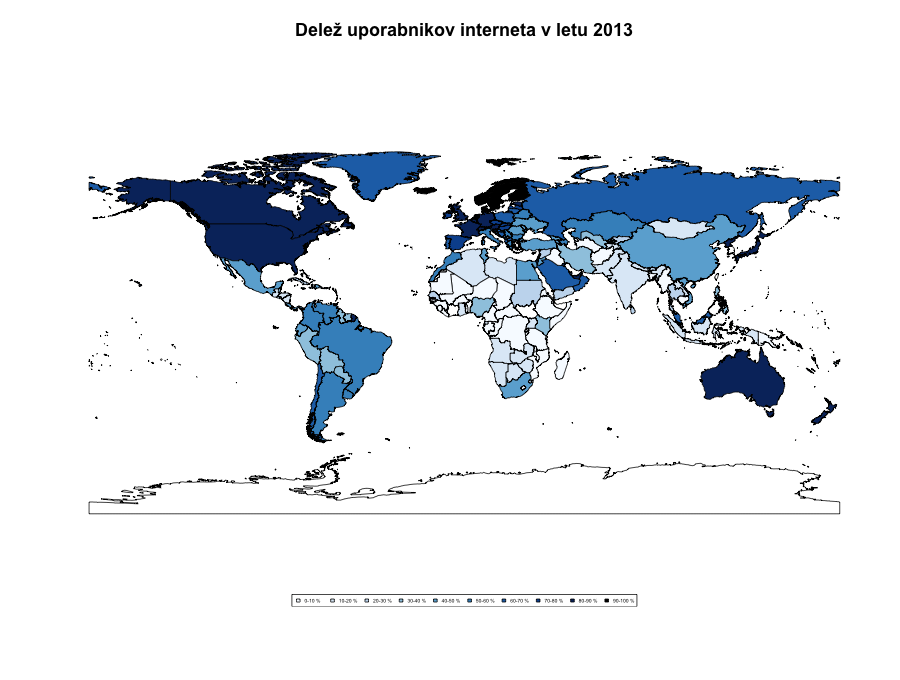
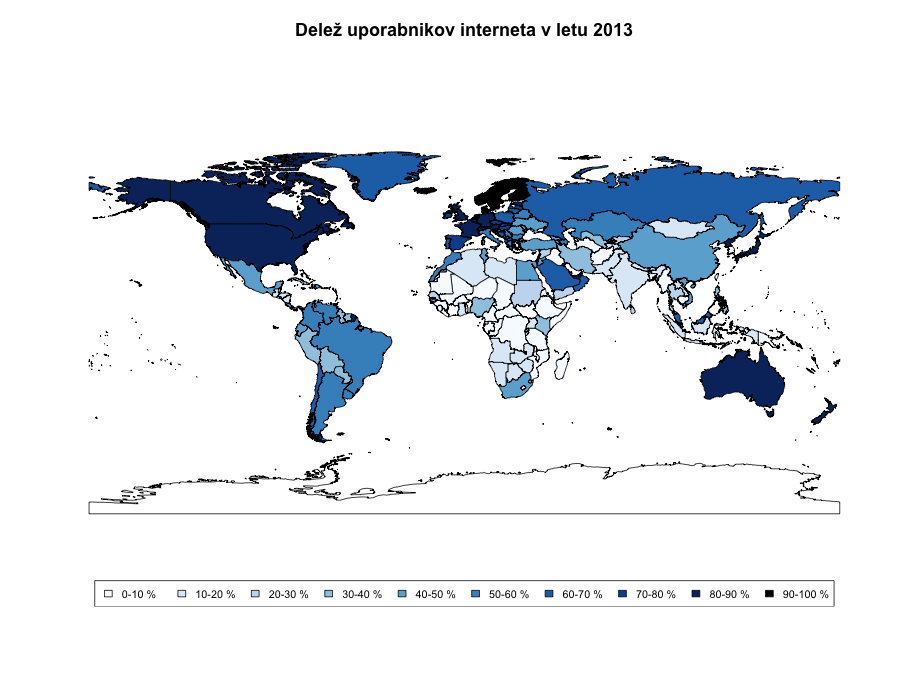
dodatni stolpci pri zemljevidu sveta... za 4. fazo

Changed region(s): [[0.0933, 0.8647, 0.9333, 0.8956]]

diff --git a/spreminjanje.uporabnikov.interneta.html b/spreminjanje.uporabnikov.interneta.html
@@ -19,9 +19,9 @@
 
 	<div class="scianimator"><div id="spreminjanje_uporabnikov_interneta" style="display: inline-block;"></div></div>
 	<div class="scianimator" style="width: 900px; text-align: left"><pre><code class="r">## Animacija spreminjanja deleza uporabnikov interneta med leti 2000-2014
+library(psych)
 library(classInt)
 library(maptools)
-library(sp)
 library(RColorBrewer)
 library(extrafont)
 library(plotrix)
@@ -30,102 +30,103 @@ library(spacetime)
 library(zoo)
 library(XML)
 library(animation)
+library(sp)
 dev.control("enable")
 par(bg = "white")
 plot(svet, col = barve00)
 legend("bottom", kategorije, fill = vektor, border = "black", 
-    cex = 0.42, xjust = 0.5, horiz = TRUE)
+    cex = 0.9, xjust = 0.5, horiz = TRUE)
 title("Delež uporabnikov interneta v letu 2000", cex.main = 1.5, 
     font.main = 2.5, col.main = "black")
 ani.record()
 plot(svet, col = barve01)
 legend("bottom", kategorije, fill = vektor, border = "black", 
-    cex = 0.42, xjust = 0.5, horiz = TRUE)
+    cex = 0.9, xjust = 0.5, horiz = TRUE)
 title("Delež uporabnikov interneta v letu 2001", cex.main = 1.5, 
     font.main = 2.5, col.main = "black")
 ani.record()
 plot(svet, col = barve02)
 legend("bottom", kategorije, fill = vektor, border = "black", 
-    cex = 0.42, xjust = 0.5, horiz = TRUE)
+    cex = 0.9, xjust = 0.5, horiz = TRUE)
 title("Delež uporabnikov interneta v letu 2002", cex.main = 1.5, 
     font.main = 2.5, col.main = "black")
 ani.record()
 plot(svet, col = barve03)
 legend("bottom", kategorije, fill = vektor, border = "black", 
-    cex = 0.42, xjust = 0.5, horiz = TRUE)
+    cex = 0.9, xjust = 0.5, horiz = TRUE)
 title("Delež uporabnikov interneta v letu 2003", cex.main = 1.5, 
     font.main = 2.5, col.main = "black")
 ani.record()
 plot(svet, col = barve04)
 legend("bottom", kategorije, fill = vektor, border = "black", 
-    cex = 0.42, xjust = 0.5, horiz = TRUE)
+    cex = 0.9, xjust = 0.5, horiz = TRUE)
 title("Delež uporabnikov interneta v letu 2004", cex.main = 1.5, 
     font.main = 2.5, col.main = "black")
 ani.record()
 plot(svet, col = barve05)
 legend("bottom", kategorije, fill = vektor, border = "black", 
-    cex = 0.42, xjust = 0.5, horiz = TRUE)
+    cex = 0.9, xjust = 0.5, horiz = TRUE)
 title("Delež uporabnikov interneta v letu 2005", cex.main = 1.5, 
     font.main = 2.5, col.main = "black")
 ani.record()
 plot(svet, col = barve06)
 legend("bottom", kategorije, fill = vektor, border = "black", 
-    cex = 0.42, xjust = 0.5, horiz = TRUE)
+    cex = 0.9, xjust = 0.5, horiz = TRUE)
 title("Delež uporabnikov interneta v letu 2006", cex.main = 1.5, 
     font.main = 2.5, col.main = "black")
 ani.record()
 plot(svet, col = barve07)
 legend("bottom", kategorije, fill = vektor, border = "black", 
-    cex = 0.42, xjust = 0.5, horiz = TRUE)
+    cex = 0.9, xjust = 0.5, horiz = TRUE)
 title("Delež uporabnikov interneta v letu 2007", cex.main = 1.5, 
     font.main = 2.5, col.main = "black")
 ani.record()
 plot(svet, col = barve08)
 legend("bottom", kategorije, fill = vektor, border = "black", 
-    cex = 0.42, xjust = 0.5, horiz = TRUE)
+    cex = 0.9, xjust = 0.5, horiz = TRUE)
 title("Delež uporabnikov interneta v letu 2008", cex.main = 1.5, 
     font.main = 2.5, col.main = "black")
 ani.record()
 plot(svet, col = barve09)
 legend("bottom", kategorije, fill = vektor, border = "black", 
-    cex = 0.42, xjust = 0.5, horiz = TRUE)
+    cex = 0.9, xjust = 0.5, horiz = TRUE)
 title("Delež uporabnikov interneta v letu 2009", cex.main = 1.5, 
     font.main = 2.5, col.main = "black")
 ani.record()
 plot(svet, col = barve10)
 legend("bottom", kategorije, fill = vektor, border = "black", 
-    cex = 0.42, xjust = 0.5, horiz = TRUE)
+    cex = 0.9, xjust = 0.5, horiz = TRUE)
 title("Delež uporabnikov interneta v letu 2010", cex.main = 1.5, 
     font.main = 2.5, col.main = "black")
 ani.record()
 plot(svet, col = barve11)
 legend("bottom", kategorije, fill = vektor, border = "black", 
-    cex = 0.42, xjust = 0.5, horiz = TRUE)
+    cex = 0.9, xjust = 0.5, horiz = TRUE)
 title("Delež uporabnikov interneta v letu 2011", cex.main = 1.5, 
     font.main = 2.5, col.main = "black")
 ani.record()
 plot(svet, col = barve12)
 legend("bottom", kategorije, fill = vektor, border = "black", 
-    cex = 0.42, xjust = 0.5, horiz = TRUE)
+    cex = 0.9, xjust = 0.5, horiz = TRUE)
 title("Delež uporabnikov interneta v letu 2012", cex.main = 1.5, 
     font.main = 2.5, col.main = "black")
 ani.record()
 plot(svet, col = barve13)
 legend("bottom", kategorije, fill = vektor, border = "black", 
-    cex = 0.42, xjust = 0.5, horiz = TRUE)
+    cex = 0.9, xjust = 0.5, horiz = TRUE)
 title("Delež uporabnikov interneta v letu 2013", cex.main = 1.5, 
     font.main = 2.5, col.main = "black")
 ani.record()
 plot(svet, col = barve14)
 legend("bottom", kategorije, fill = vektor, border = "black", 
-    cex = 0.42, xjust = 0.5, horiz = TRUE)
+    cex = 0.9, xjust = 0.5, horiz = TRUE)
 title("Delež uporabnikov interneta v letu 2014", cex.main = 1.5, 
     font.main = 2.5, col.main = "black")
 ani.record()
 ## R version 3.1.2 (2014-10-31)
 ## Platform: x86_64-apple-darwin10.8.0 (64-bit)
-## Other packages: classInt 0.1-22, maptools 0.8-30, sp 1.0-17, RColorBrewer 1.1-2, extrafont 0.17,
-## plotrix 3.5-10, ggplot2 1.0.0, spacetime 1.1-1, zoo 1.7-11, XML 3.98-1.1, animation 2.3</code></pre></div>
+## Other packages: psych 1.5.1, classInt 0.1-22, maptools 0.8-30, RColorBrewer 1.1-2, extrafont 0.17,
+## plotrix 3.5-10, ggplot2 1.0.0, spacetime 1.1-1, zoo 1.7-11, XML 3.98-1.1, animation 2.3, sp 1.0-17</code></pre></div>
 	<script src="js/spreminjanje.uporabnikov.interneta.js"></script>
 <!-- highlight R code -->
 

diff --git a/porocilo/porocilo.tex b/porocilo/porocilo.tex
@@ -10,6 +10,7 @@
 \usepackage{url}
 \usepackage{hyperref}
 \usepackage{breakurl}
+\usepackage{animate}
 
 
 
@@ -126,6 +127,12 @@ Na četrtem zemljevidu je pa vidna primerjava med višino GDP pc ter deležem up
 
 \newpage
 \section{Napredna analiza podatkov}
+\begin{center}
+\begin{figure}
+  \animategraphics[controls, loop, width=1.2\linewidth]{1}{../slike/animacija}{}{}
+\end{figure}
+
+\end{center}
 
 
 \end{document}

diff --git a/uporabniki.interneta.tex b/uporabniki.interneta.tex
@@ -1,0 +1,10 @@
+\documentclass{article}
+                \usepackage{animate}
+                \begin{document}
+                \begin{figure}
+                \begin{center}
+                \animategraphics[controls,width=\linewidth]{1}{spreminjanje.uporabnikov.interneta}{}{}\caption{animated dialogue}
+                \end{center}
+                \end{figure}
+                \end{document}
+                 

diff --git a/README.md b/README.md
@@ -37,4 +37,6 @@ viri so v mapi `podatki/`. Slike, ki jih program naredi, se shranijo v mapo
 
 Poročilo se nahaja v mapi `porocilo/`. Za izdelavo poročila v obliki PDF je
 potrebno datoteko `porocilo/porocilo.tex` prevesti z LaTeXom. Pred tem je
-potrebno pognati program, saj so v poročilu vključene slike iz mape `slike/`.
+potrebno pognati program("projekt.r"), saj so v poročilu vključene slike iz mape `slike/`.
+Ko poženete program se vam odpre spletna stran z animacijo, več o tej animaciji je napisano v poročilu.
+
